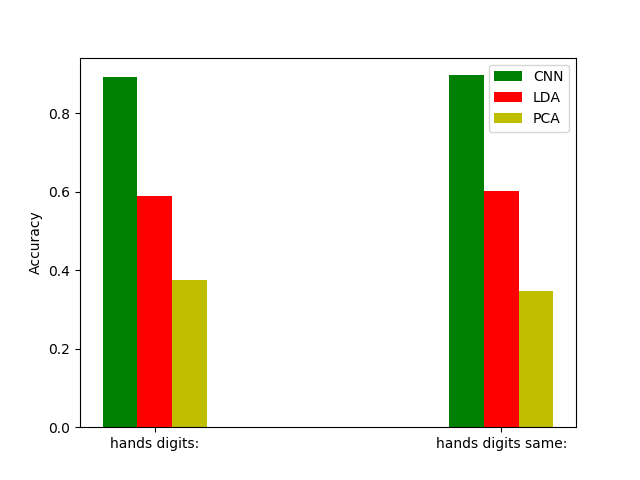
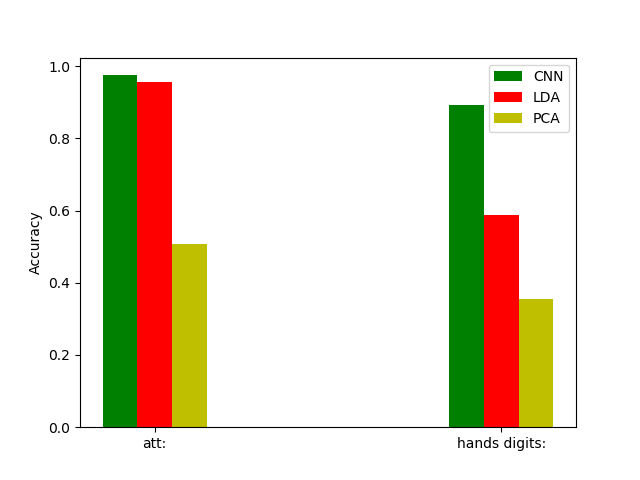
results for two diffrent databases

diff --git a/src/postprocessing/processResults.py b/src/postprocessing/processResults.py
@@ -1,11 +1,11 @@
-#from postprocessing.saveTexTable import SaveTexTable
-#from postprocessing.savePlot import SavePlot
-#from postprocessing.statiscalAnalysis import StatiscalAnalysis
-#from postprocessing.utils import getFirstItemFromDict
-from saveTexTable import SaveTexTable
-from savePlot import SavePlot
-from statiscalAnalysis import StatiscalAnalysis
-from utils import getFirstItemFromDict
+from postprocessing.saveTexTable import SaveTexTable
+from postprocessing.savePlot import SavePlot
+from postprocessing.statiscalAnalysis import StatiscalAnalysis
+from postprocessing.utils import getFirstItemFromDict
+#from saveTexTable import SaveTexTable
+#from savePlot import SavePlot
+#from statiscalAnalysis import StatiscalAnalysis
+#from utils import getFirstItemFromDict
 
 import numpy as np
 
@@ -116,29 +116,28 @@ class ProcessResults:
 
 if __name__ == "__main__":
 
-    arg = {'hands digits:': {'CNN': {'fit_time': np.array([41.09881115, 32.05074167, 40.12821174, 42.827425  , 43.51534581,
-       38.6638999 , 42.60091305, 38.32311487, 40.71226764, 39.717659  ]), 'score_time': np.array([0.44809604, 0.59721804, 0.50908971, 0.36806273, 0.75289488,
-       0.38465977, 0.61176682, 0.34503698, 0.50811362, 0.65724778]), 'test_score': np.array([0.8952381 , 0.9       , 0.91904762, 0.85714286, 0.86602871,
-       0.93269231, 0.90196078, 0.87562189, 0.885     , 0.88      ]), 'train_score': np.array([1., 1., 1., 1., 1., 1., 1., 1., 1., 1.])}, 'LDA': {'fit_time': np.array([6.58350778, 5.70512056, 5.68869352, 5.70475984, 5.81715679,
-       5.80032015, 5.78563452, 5.84001446, 5.88697743, 5.86401606]), 'score_time': np.array([0.0052619 , 0.00517988, 0.00524569, 0.00523973, 0.00524855,
-       0.00511932, 0.00509882, 0.00495934, 0.00492978, 0.00494719]), 'test_score': np.array([0.63809524, 0.6047619 , 0.58571429, 0.50952381, 0.60287081,
-       0.57692308, 0.62254902, 0.59701493, 0.56      , 0.595     ]), 'train_score': np.array([0.97516199, 0.97894168, 0.97516199, 0.97786177, 0.97841338,
-       0.9768069 , 0.98062433, 0.97796883, 0.97744361, 0.97529538])}, 'PCA': {'fit_time': np.array([5.14121652, 5.04868078, 5.06676483, 5.06719685, 5.05462623,
-       5.08360696, 5.07999516, 5.08329153, 5.08469367, 5.11602664]), 'score_time': np.array([0.01104116, 0.01100206, 0.01036191, 0.01043105, 0.01050115,
-       0.01023769, 0.01015496, 0.01010108, 0.0098238 , 0.00997376]), 'test_score': np.array([0.37142857, 0.34761905, 0.36666667, 0.36666667, 0.35406699,
-       0.36538462, 0.41176471, 0.3681592 , 0.435     , 0.375     ]), 'train_score': np.array([0.37365011, 0.35475162, 0.32991361, 0.34611231, 0.39449541,
-       0.37162891, 0.38266954, 0.42074154, 0.35875403, 0.41192266])}}, 'hands digits same:': {'CNN': {'fit_time': np.array([33.94790244, 37.9620018 , 34.52393293, 42.56917858, 40.71315074,
-       36.42746091, 45.7413311 , 44.76957083, 36.27902246, 38.94157338]), 'score_time': np.array([0.44482422, 0.4382062 , 0.39355636, 0.6662004 , 0.35899305,
-       0.42355323, 1.04408264, 0.38887858, 0.4203825 , 0.39659882]), 'test_score': np.array([0.9047619 , 0.9       , 0.88571429, 0.94761905, 0.85167464,
-       0.90384615, 0.8627451 , 0.90049751, 0.91      , 0.9       ]), 'train_score': np.array([1., 1., 1., 1., 1., 1., 1., 1., 1., 1.])}, 'LDA': {'fit_time': np.array([5.88594437, 5.67983699, 5.69046402, 5.71996331, 5.78156257,
-       5.77269888, 5.84139442, 5.85778379, 5.87251925, 5.86611819]), 'score_time': np.array([0.00521326, 0.00525188, 0.00519419, 0.00538826, 0.00521612,
-       0.00526094, 0.00511241, 0.00512552, 0.00510788, 0.00505757]), 'test_score': np.array([0.54285714, 0.62857143, 0.58095238, 0.65238095, 0.64593301,
-       0.57692308, 0.56862745, 0.65174129, 0.595     , 0.58      ]), 'train_score': np.array([0.97462203, 0.97678186, 0.97516199, 0.98056156, 0.97409606,
-       0.97626753, 0.97631862, 0.97581945, 0.97744361, 0.97798067])}, 'PCA': {'fit_time': np.array([5.0699141 , 5.06007361, 5.04641485, 5.04727387, 5.04307532,
-       5.05647659, 5.06736684, 5.07166481, 5.08055162, 5.0645535 ]), 'score_time': np.array([0.01062465, 0.01065731, 0.01070285, 0.01064157, 0.01056099,
-       0.01114988, 0.01044297, 0.0103066 , 0.01018929, 0.01022911]), 'test_score': np.array([0.36190476, 0.32380952, 0.38095238, 0.4       , 0.41626794,
-       0.22115385, 0.29411765, 0.34328358, 0.37      , 0.37      ]), 'train_score': np.array([0.42278618, 0.37473002, 0.39470842, 0.37257019, 0.42093902,
-       0.27562028, 0.37674919, 0.39226222, 0.32116004, 0.3915145 ])}}}
+    arg = {'att:': {'CNN': {'fit_time': np.array([ 9.73712945,  7.11988163,  8.05349183,  7.94410205, 10.29620171,
+       10.56885171,  8.97548914, 10.14933944,  8.59427857,  9.69579959]), 'score_time': np.array([0.09158444, 0.0864749 , 0.08191729, 0.08450031, 0.08302522,
+       0.08150887, 0.27435803, 0.27574182, 0.07171535, 0.26144338]), 'test_score': np.array([1.   , 0.95 , 1.   , 1.   , 0.975, 0.925, 0.95 , 0.975, 0.975,
+       1.   ]), 'train_score': np.array([1., 1., 1., 1., 1., 1., 1., 1., 1., 1.])}, 'LDA': {'fit_time': np.array([0.69652343, 0.56391597, 0.5694797 , 0.56454897, 0.56236124,
+       0.56230187, 0.56459379, 0.56062531, 0.56395602, 0.57096577]), 'score_time': np.array([0.00168204, 0.00166893, 0.00171185, 0.00165248, 0.00167108,
+       0.00168705, 0.00165629, 0.00167441, 0.001647  , 0.00165868]), 'test_score': np.array([1.   , 0.975, 1.   , 0.925, 0.95 , 0.875, 0.95 , 0.95 , 0.975,
+       0.95 ]), 'train_score': np.array([1., 1., 1., 1., 1., 1., 1., 1., 1., 1.])}, 'PCA': {'fit_time': np.array([3.0377779 , 3.03450751, 3.03387666, 3.03574753, 3.0358336 ,
+       3.02624106, 3.0319159 , 3.03152728, 3.03685355, 3.0300951 ]), 'score_time': np.array([0.00364947, 0.00366664, 0.00361872, 0.00364661, 0.00373149,
+       0.00364399, 0.00362515, 0.0036459 , 0.00374532, 0.00359917]), 'test_score': np.array([0.55 , 0.625, 0.475, 0.35 , 0.475, 0.45 , 0.5  , 0.55 , 0.525,
+       0.575]), 'train_score': np.array([0.64722222, 0.66388889, 0.66944444, 0.65277778, 0.69444444,
+       0.65555556, 0.60277778, 0.68333333, 0.72777778, 0.71666667])}}, 'hands digits:': {'CNN': {'fit_time': np.array([33.02510095, 46.05610943, 43.79078364, 54.94672513, 52.56463575,
+       56.41898513, 54.89646411, 55.55943251, 51.74866319, 46.64121532]), 'score_time': np.array([0.52122259, 0.60467052, 0.50906849, 0.62468147, 0.78036427,
+       0.80703616, 0.94783282, 0.68016624, 0.75318456, 0.45301223]), 'test_score': np.array([0.9047619 , 0.91904762, 0.9       , 0.88095238, 0.89952153,
+       0.88942308, 0.88235294, 0.87064677, 0.88      , 0.895     ]), 'train_score': np.array([1., 1., 1., 1., 1., 1., 1., 1., 1., 1.])}, 'LDA': {'fit_time': np.array([6.06999755, 5.83840847, 5.8305614 , 5.78747988, 5.90850353,
+       5.86860633, 5.93162346, 6.032969  , 6.01143312, 6.02672362]), 'score_time': np.array([0.00522661, 0.00536585, 0.00522113, 0.00542188, 0.00526857,
+       0.00535822, 0.00524664, 0.00561333, 0.00530028, 0.00552201]), 'test_score': np.array([0.64761905, 0.62857143, 0.58571429, 0.57619048, 0.60287081,
+       0.61057692, 0.55882353, 0.53731343, 0.55      , 0.575     ]), 'train_score': np.array([0.97732181, 0.97732181, 0.97732181, 0.97732181, 0.97625472,
+       0.97572816, 0.97416577, 0.98119291, 0.97851772, 0.97744361])}, 'PCA': {'fit_time': np.array([5.34311342, 5.64445996, 5.28642225, 5.2062459 , 5.32895637,
+       5.26380682, 5.1891582 , 5.19789886, 5.28516626, 5.26967335]), 'score_time': np.array([0.01036787, 0.01180029, 0.01119637, 0.01042628, 0.01090074,
+       0.01047945, 0.01024008, 0.01039004, 0.01020217, 0.01082087]), 'test_score': np.array([0.32380952, 0.32380952, 0.36666667, 0.4       , 0.3923445 ,
+       0.39423077, 0.28921569, 0.33830846, 0.37      , 0.355     ]), 'train_score': np.array([0.35961123, 0.37796976, 0.36933045, 0.45464363, 0.41122504,
+       0.38781014, 0.36544672, 0.34390113, 0.39581096, 0.39742213])}}}
 
 
 

diff --git a/src/extractors/Cnn.py b/src/extractors/Cnn.py
@@ -8,8 +8,8 @@ from keras import optimizers
 from keras.utils import np_utils
 
 class Cnn:
-    def __init__(self, xTrain, yTrain):
-        pass
+    def __init__(self, xTrain, yTrain, numberOfClasses):
+        self.__numClasses = numberOfClasses
 
 
     def fit(self, xTrain, yTrain):
@@ -42,14 +42,14 @@ class Cnn:
     def fit_transform(self, x, y):
         self.fit(x,y)
         return self.transform(x)
-        
+
 
     def __reshapeX(self, x):
         numOfChannels = 1
         return x.reshape((x.shape[0], x.shape[1], x.shape[2], numOfChannels))
 
     def __reshapeY(self, y):
-        return np_utils.to_categorical(y, num_classes=10)
+        return np_utils.to_categorical(y, num_classes=self.__numClasses)
 
     def __removeLastLayers(self, numLayersToRemove):
         #https://github.com/keras-team/keras/issues/2371
@@ -87,7 +87,8 @@ class Cnn:
 
         cnn.add(Flatten())
         cnn.add(Dense(500, activation='relu'))
-        cnn.add(Dense(10, activation='softmax'))
+        #cnn.add(Dense(10, activation='softmax'))
+        cnn.add(Dense(self.__numClasses, activation='softmax'))
 
         cnn.compile(loss='categorical_crossentropy', optimizer = optimizers.Adadelta(), metrics = ['accuracy'])
         cnn.fit(xTrainCnn, yTrainCnn, batch_size = 200, epochs = 10)

diff --git a/src/main.py b/src/main.py
@@ -12,8 +12,9 @@ classifiersDict = {
 }
 
 dataBaseDict = {
-    'hands digits:': Db("hands"),
-    'hands digits same:': Db("hands"),
+    'att:': Db("att", 40),
+    'hands digits:': Db("hands", 10),
+    #'georgia': Db("georgia", 50),
 }
 
 if __name__ == "__main__":
@@ -38,7 +39,8 @@ if __name__ == "__main__":
 
             x, y = db.getGrayscale()
 
-            result = extractorComparision.compareExtractors(classifier, x, y)
+            result = extractorComparision.compareExtractors(classifier, x, y,
+                db.numClasses)
             results[dbName] = result
 
         processResults.process(results, classifierName)

diff --git a/src/extractors/Pca.py b/src/extractors/Pca.py
@@ -5,14 +5,16 @@ import numpy as np
 from utils import flatten
 
 class Pca:
-    def __init__(self, xTrain, yTrain):
+    def __init__(self, xTrain, yTrain, numberOfClasses):
         pass
 
 
     def fit(self, xTrain, yTrain):
+        """
         varianceThreshold = 0.95
         self.__engine = PCA()
         xFlat = flatten(xTrain)
+        """
 
         """
         self.__engine.fit(xFlat)
@@ -22,6 +24,7 @@ class Pca:
         self.__engine = PCA(n_components = numFeatures)
         """
 
+        xFlat = flatten(xTrain)
         self.__engine = PCA(n_components=100)
         self.__engine.fit(xFlat)
 

diff --git a/src/Db.py b/src/Db.py
@@ -9,8 +9,8 @@ import os
 
 
 class Db:
-    def __init__(self, dataBaseName):
-        self.__numClasses = 10
+    def __init__(self, dataBaseName, numberOfClasses):
+        self.numClasses = numberOfClasses
         self.__outputImgSideLen = 100
         self.__dataBaseName = dataBaseName
 
@@ -22,7 +22,7 @@ class Db:
         x = []
         y = []
 
-        for classId in range(self.__numClasses):
+        for classId in range(self.numClasses):
             directory = "../db/" + self.__dataBaseName + "/" + str(classId)
 
             filesInDir = os.listdir(directory)

diff --git a/src/extractorsComp.py b/src/extractorsComp.py
@@ -14,11 +14,11 @@ class ExtractorComparison:
         }
 
 
-    def compareExtractors(self, classifier, data, target):
+    def compareExtractors(self, classifier, data, target, numberOfClasses):
         results = {}
         for name, extractionMethod in self.extractorsDict.items():
             print(name)
-            extractor = extractionMethod(data, target)
+            extractor = extractionMethod(data, target, numberOfClasses)
 
             clf = make_pipeline(extractor, classifier)
             result = self.crossValidate(clf, data, target)

diff --git a/src/postprocessing/statiscalAnalysis.py b/src/postprocessing/statiscalAnalysis.py
@@ -52,7 +52,7 @@ class StatiscalAnalysis:
 
     def doPostHocTesting(self, errorTable):
         x = np.array(errorTable)
-        x = x[:, 0, :]
+        x = np.transpose(x[:, 0, :])
         res = sp.posthoc_nemenyi_friedman(x)
         print("res:")
         print(res)

diff --git a/src/postprocessing/savePlot.py b/src/postprocessing/savePlot.py
@@ -1,5 +1,5 @@
-#from postprocessing.utils import getFirstItemFromDict
-from utils import getFirstItemFromDict
+from postprocessing.utils import getFirstItemFromDict
+#from utils import getFirstItemFromDict
 
 import matplotlib.pyplot as plt
 import numpy as np

diff --git a/doc/tables/Svm_fit_time_table.tex b/doc/tables/Svm_fit_time_table.tex
@@ -2,8 +2,8 @@
   \hline
     & CNN & LDA & PCA \\
   \hline
-  hands digits: & 39.96 & 5.87 & 5.08 \\
+  att: & 9.11 & 0.58 & 3.03 \\
   \hline
-  hands digits same: & 39.19 & 5.80 & 5.06 \\
+  hands digits: & 49.56 & 5.93 & 5.30 \\
   \hline
 \end{tabular}

diff --git a/doc/tables/Svm_acc_table.tex b/doc/tables/Svm_acc_table.tex
@@ -2,8 +2,8 @@
   \hline
     & CNN & LDA & PCA \\
   \hline
-  hands digits: & 0.89 & 0.59 & 0.38 \\
+  att: & 0.98 & 0.95 & 0.51 \\
   \hline
-  hands digits same: & 0.90 & 0.60 & 0.35 \\
+  hands digits: & 0.89 & 0.59 & 0.36 \\
   \hline
 \end{tabular}

diff --git a/src/postprocessing/saveTexTable.py b/src/postprocessing/saveTexTable.py
@@ -1,5 +1,5 @@
-#from postprocessing.utils import getFirstItemFromDict
-from utils import getFirstItemFromDict
+from postprocessing.utils import getFirstItemFromDict
+#from utils import getFirstItemFromDict
 
 class SaveTexTable:
 

diff --git a/src/extractors/Lda.py b/src/extractors/Lda.py
@@ -4,7 +4,7 @@ from utils import flatten
 
 class Lda:
 
-    def __init__(self, xTrain, yTrain):
+    def __init__(self, xTrain, yTrain, numberOfClasses):
         self.__engine = LDA(n_components=100)
 
 
